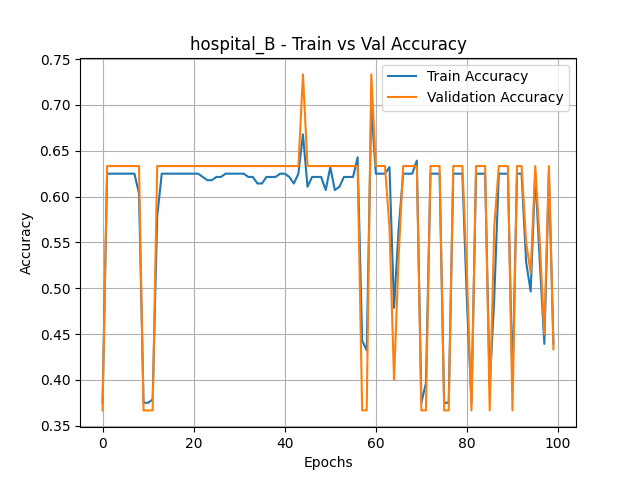
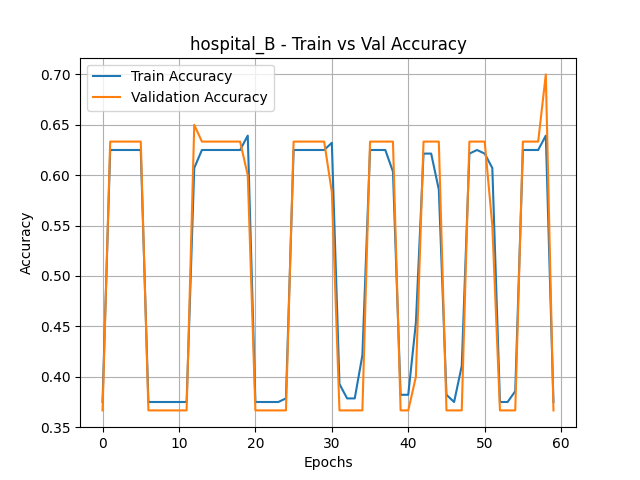
Epoches changed 100 - 60

diff --git a/notebooks/local_gnn_training.py b/notebooks/local_gnn_training.py
@@ -6,9 +6,14 @@ import pandas as pd
 import matplotlib.pyplot as plt
 from sklearn.metrics import accuracy_score
 
-# USE SAME MONITOR STYLE AS CODE-1
-# from resource_monitor import ResourceMonitor
-from notebooks.resource_monitor import ResourceMonitor
+# Automatic import handling for ResourceMonitor
+try:
+    from notebooks.resource_monitor import ResourceMonitor
+except (ImportError, ModuleNotFoundError):
+    try:
+        from resource_monitor import ResourceMonitor
+    except (ImportError, ModuleNotFoundError):
+        print("Warning: resource_monitor.py not found in expected paths.")
 
 # Ensure pathing for GCN model import
 sys.path.append(os.path.abspath(".."))
@@ -26,7 +31,7 @@ def compute_accuracy(model, graph):
     return accuracy_score(labels, preds)
 
 
-def train_local_model(train_graph_path, val_graph_path, epochs=100, lr=0.01, hospital_name="Hospital"):
+def train_local_model(train_graph_path, val_graph_path, epochs=60, lr=0.01, hospital_name="Hospital"):
 
     if not os.path.exists(train_graph_path) or not os.path.exists(val_graph_path):
         print(f"Error: Graph files for {hospital_name} not found.")
@@ -42,12 +47,23 @@ def train_local_model(train_graph_path, val_graph_path, epochs=100, lr=0.01, hos
     ).to(device)
 
     optimizer = torch.optim.Adam(model.parameters(), lr=lr)
-    criterion = torch.nn.CrossEntropyLoss()
+
+    # CLASS IMBALANCE 
+    class_counts = torch.bincount(train_graph.y)
+    class_counts = class_counts.float()
+
+    # Avoid division by zero
+    class_counts[class_counts == 0] = 1.0
+
+    class_weights = 1.0 / class_counts
+    class_weights = class_weights / class_weights.sum()
+
+    criterion = torch.nn.CrossEntropyLoss(weight=class_weights.to(device))
 
     train_acc_list = []
     val_acc_list = []
 
-    # ===== RESOURCE MONITOR (FROM CODE-1) =====
+    # ===== RESOURCE MONITOR =====
     monitor = ResourceMonitor()
     monitor.start_timer()
 
@@ -69,7 +85,7 @@ def train_local_model(train_graph_path, val_graph_path, epochs=100, lr=0.01, hos
         print(f"[{hospital_name}] Epoch {epoch+1}/{epochs} | "
               f"Train Acc: {train_acc:.4f} | Val Acc: {val_acc:.4f}")
 
-    # ===== RESOURCE REPORT (FROM CODE-1) =====
+    # ===== RESOURCE REPORT =====
     training_time = monitor.stop_timer()
     memory_used = monitor.memory_usage_mb()
 
@@ -119,7 +135,6 @@ def main():
             save_path = os.path.join(model_save_dir, f"model_{h}.pth")
             torch.save(model.state_dict(), save_path)
 
-            # ===== COMMUNICATION COST (FROM CODE-1) =====
             size_mb = ResourceMonitor.model_size_mb(save_path)
             print(f"Model Communication Cost: {size_mb:.2f} MB")
 

diff --git a/notebooks/local_ldp.py b/notebooks/local_ldp.py
@@ -56,33 +56,39 @@ def apply_ldp(model, epsilon, alpha=0.3):
 
     return noisy_model
 
-def select_best_epsilon(clean_model, graph, epsilons, alpha_score=0.8, hospital_name="Hospital"):
+def select_best_epsilon(clean_model, graph, epsilons, delta=0.02, hospital_name="Hospital"):
     clean_acc = evaluate(clean_model, graph)
     print(f"\n--- {hospital_name} LDP Optimization ---")
     print(f"Original Local Accuracy: {clean_acc:.4f}")
 
-    best_score = -float("inf")
+    threshold = clean_acc - delta
+    print(f"Minimum Acceptable Accuracy: {threshold:.4f}")
+
     best_eps = None
     best_model = None
     noisy_accuracies = []
-    eps_max = max(epsilons)
 
-    for eps in epsilons:
+    for eps in sorted(epsilons):
         noisy_model = apply_ldp(clean_model, eps)
         noisy_acc = evaluate(noisy_model, graph)
-
-        score = alpha_score * noisy_acc - (1 - alpha_score) * (eps / eps_max)
         noisy_accuracies.append(noisy_acc)
 
-        print(f"ε={eps:<3} | Protected Acc={noisy_acc:.4f} | Score={score:.4f}")
+        print(f"ε={eps:<3} | Protected Acc={noisy_acc:.4f}")
 
-        if score > best_score:
-            best_score = score
+        if noisy_acc >= threshold and best_eps is None:
             best_eps = eps
             best_model = noisy_model
 
+    # Fallback (if none satisfy threshold)
+    if best_eps is None:
+        print("No epsilon satisfies constraint. Selecting best accuracy.")
+        best_idx = np.argmax(noisy_accuracies)
+        best_eps = epsilons[best_idx]
+        best_model = apply_ldp(clean_model, best_eps)
+
     print(f"Selected optimal ε={best_eps} for {hospital_name}")
     return best_model, best_eps, noisy_accuracies, clean_acc
+
 
 def plot_tradeoff(epsilons, accuracies, clean_acc, hospital_label):
     plt.figure(figsize=(8, 5))
